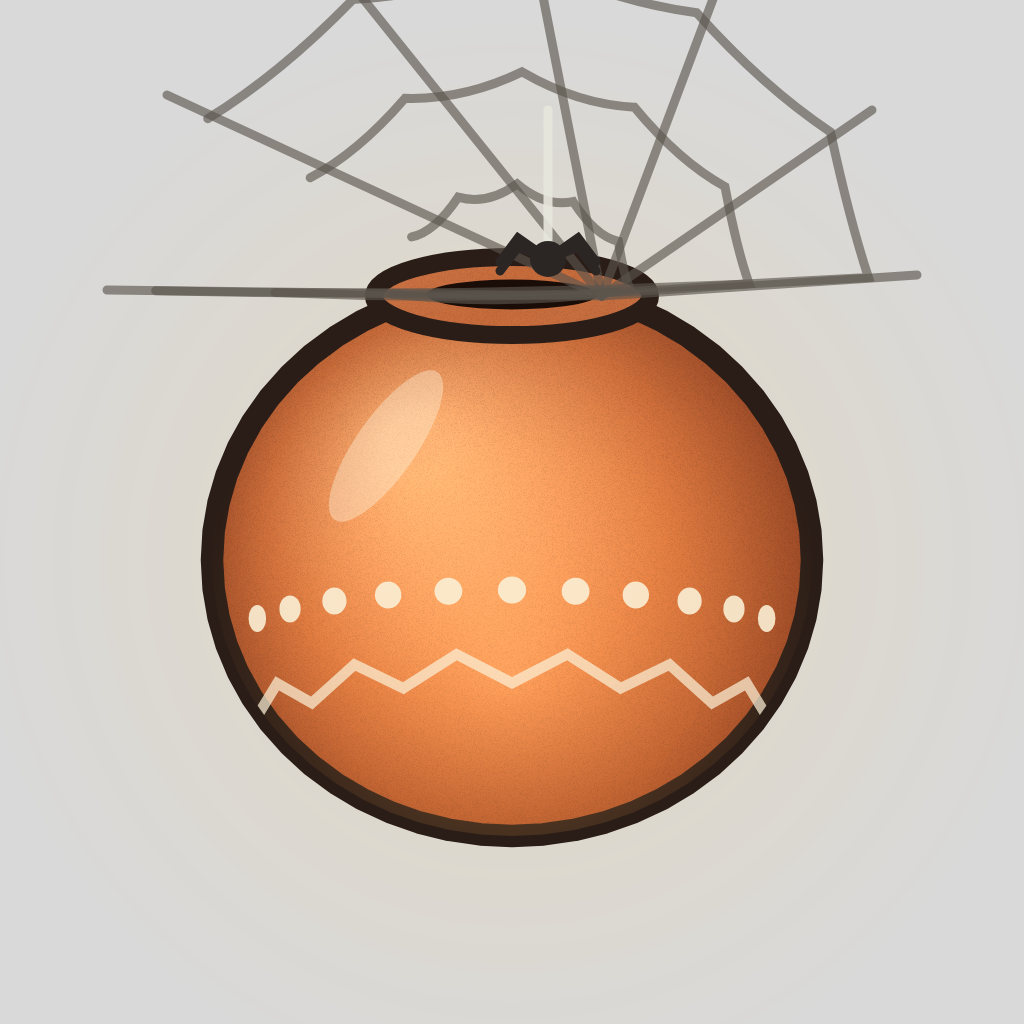
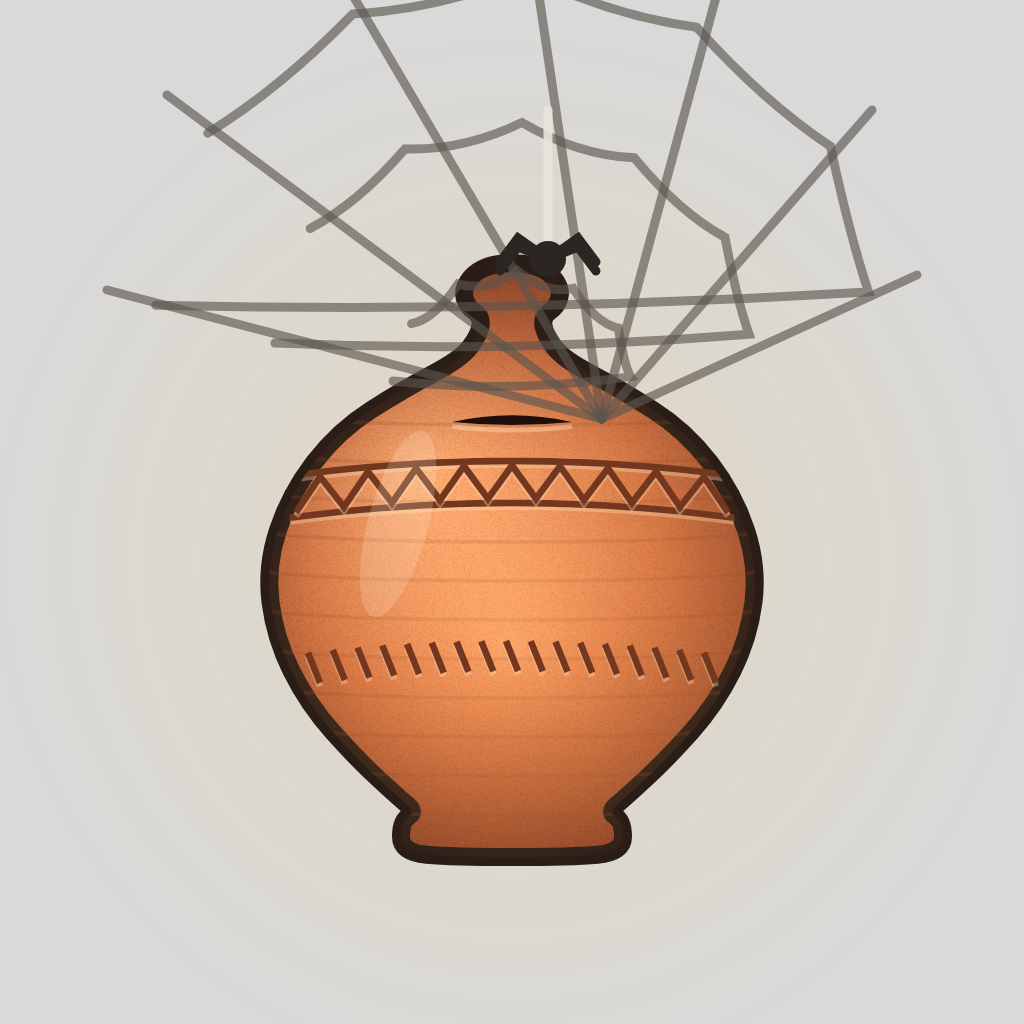
Redesign gullak as a real knob-topped terracotta money pot
Claude-Session: https://claude.ai/code/session_0199JQhK5NhVe6gvZTPtKwAb

Changed region(s): [[0.125, 0.0, 0.9062, 0.8438]]

diff --git a/reel/notes/flow-shotlist.md b/reel/notes/flow-shotlist.md
@@ -12,7 +12,7 @@ Generate these as **Images** first (prompts in `flow-prompts.md`), then attach t
 ## Rules for every video prompt
 - Start with the **style line**: *Japanese anime film in the style of Kyoto Animation and "A Silent Voice", soft cel shading, delicate line art, cinematic warm light, gentle camera, 24fps feel.*
 - End with: *No dialogue, no text, no subtitles, no music.*
-- The gullak phrase, used word for word: **"a small round terracotta clay pot with a coin slot (a gullak) sits inside his chest where the heart is, visible through a round opening in his shirt, glowing softly from within"** (attach the matching gullak image).
+- The gullak phrase, used word for word: **"a small traditional Indian gullak — an unglazed terracotta money pot with a round knob on top, a wide round belly, a coin slit on its shoulder and bands scratched into the clay — sits inside his chest where the heart is, visible through a round opening in his shirt, glowing softly from within"** (attach the matching gullak image).
 - **Aspect:** shot 1 is **9:16**, everything after it is **16:9**.
 - **Draft with "Veo – Fast"** if it's offered (cheaper). Re-do only the best shots in Quality later.
 - Name files `s01.mp4`, `s02.mp4`… in order.
